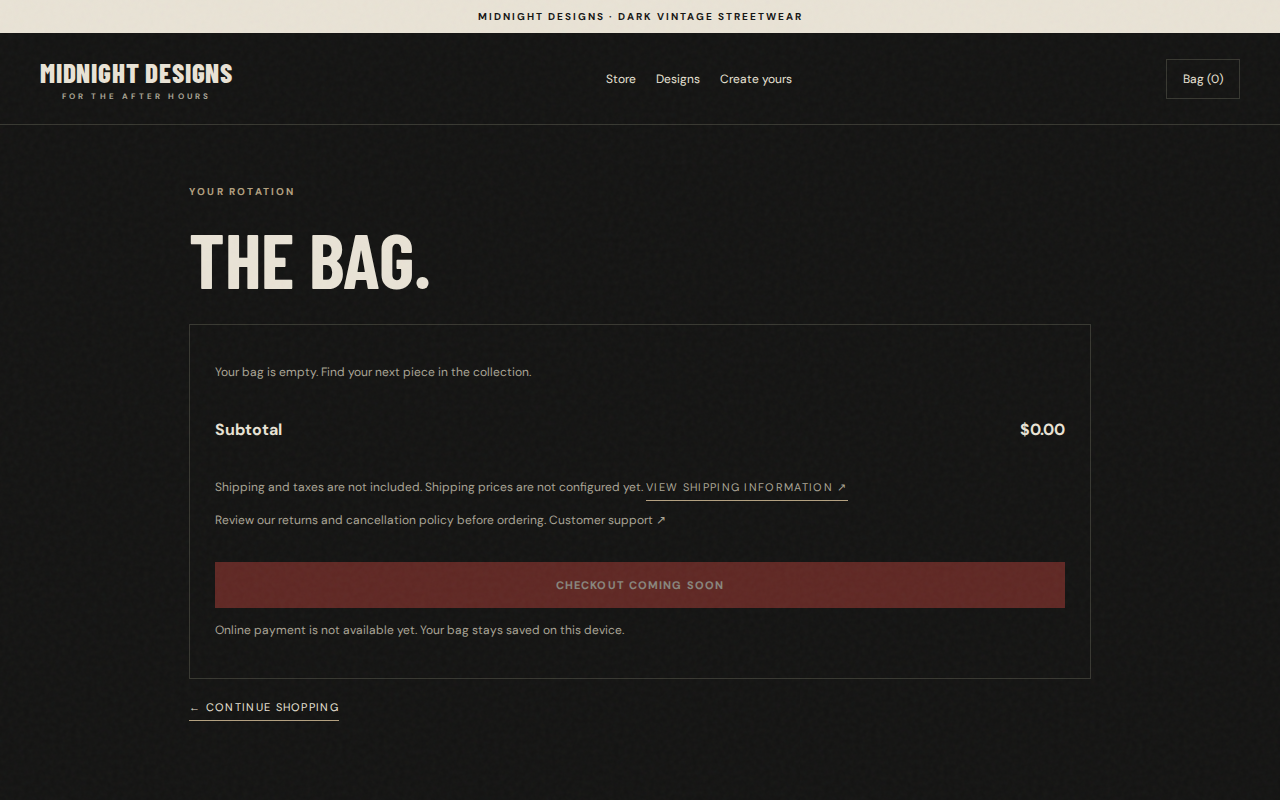
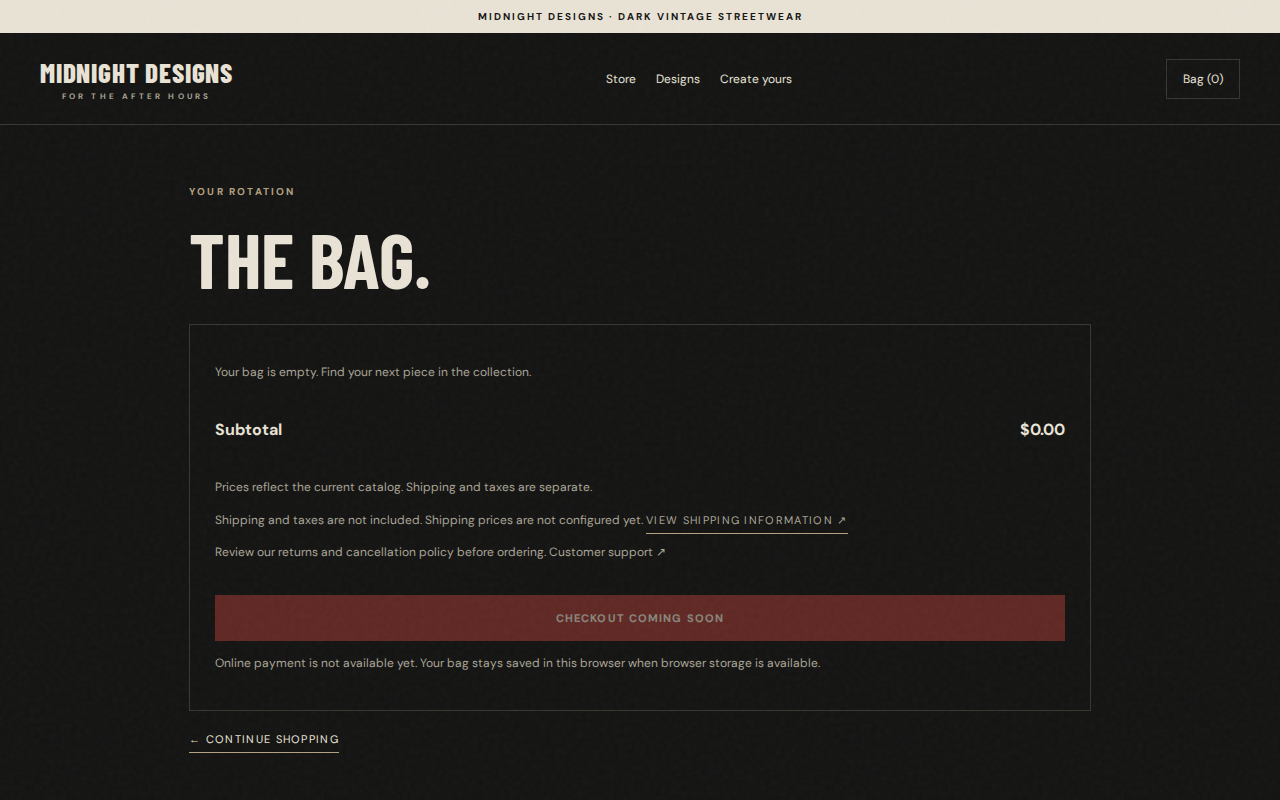
Improve mobile shopping readability and touch controls (#26)
* Improve mobile shopping typography, navigation, controls and image fit

* Refresh page previews after mobile shopping improvements

---------

Changed region(s): [[0.1562, 0.6875, 0.8438, 0.8438], [0.1562, 0.5938, 0.6562, 0.6562], [0.1562, 0.875, 0.2812, 0.9375]]

diff --git a/styles.css b/styles.css
@@ -16,3 +16,42 @@
 
 /* Keep the selected product option readable on its dark background. */
 .variant-button[aria-pressed=true]{color:var(--white)}
+
+/* Mobile shopping: readable copy, visible navigation and comfortable touch targets. */
+@media(max-width:800px){
+ .nav{padding:16px 20px;gap:12px}.nav .brand{font-size:23px}.nav .brand small{font-size:9px;letter-spacing:.25em}
+ .nav .pill{min-height:44px;display:inline-flex;align-items:center;font-size:14px;padding:10px 14px}
+ .nav .links{order:3;display:flex;width:100%;gap:8px;flex-wrap:nowrap;justify-content:stretch;font-size:14px}
+ .nav .links a,.nav .links a:last-child{display:flex;align-items:center;justify-content:center;flex:1;min-width:0;min-height:48px;padding:10px 6px;border:1px solid var(--line);background:var(--panel);text-align:center}
+ .section{padding:40px 20px}.wrap{padding:28px 20px;gap:28px}.cart-wrap{padding:40px 20px}
+ body .notice,body .catalog-status,body .photo-caption{font-size:14px;line-height:1.75}
+ body .info p,body .hero p,body .story p,body .product-spec-section p,body .product-spec-section li,body #availableOptions p{font-size:16px;line-height:1.75}
+ body label,body .info label{font-size:14px}body input:not([type=range]):not([type=color]),body select,body textarea{font-size:16px;min-height:48px}
+ body .btn,body .studio .btn,body .map-controls .btn{min-height:48px;font-size:13px;padding:14px 18px;line-height:1.4}
+ body .text-link{display:inline-flex;align-items:center;min-height:44px;font-size:13px;line-height:1.6;padding:8px 0;max-width:100%}
+ body .price{font-size:18px}.product-body h3{font-size:18px;line-height:1.5}.product-meta{flex-wrap:wrap}
+ .filters{gap:12px}.filters input{flex-basis:100%;min-width:0}.filters select{flex:1;min-width:0}
+ body .info h1{font-size:clamp(34px,8vw,48px);overflow-wrap:anywhere}
+ body h1.page-title{font-size:clamp(42px,10vw,60px);line-height:1.05;overflow-wrap:anywhere}
+ body .hero h1{font-size:clamp(58px,17vw,88px)}.hero-copy{padding:45px 20px 32px}.hero-art{margin:0 20px 30px;min-height:340px}
+ .hero-product{height:340px;max-height:65svh}.hero-art:before,.hero-art:after{max-width:90%}
+ .visual{max-width:100%;max-height:70svh}.visual img{max-width:100%;object-fit:contain}
+ .visual.is-artwork-detail img{max-width:none}
+ body .photo-filters button,body .variant-button{min-height:48px;font-size:14px;padding:12px 14px}
+ body .photo-enlarge{min-height:48px;font-size:14px;padding:12px 0}
+ body .photo-thumbnail span{font-size:12px;line-height:1.5}.gallery{padding-bottom:8px}
+ .footer{padding:28px 20px;flex-wrap:wrap;font-size:12px;line-height:1.7;gap:12px 20px}
+ .footer a{min-height:44px;display:inline-flex;align-items:center}
+ .item{grid-template-columns:70px minmax(0,1fr);gap:14px;align-items:start}.item>div:last-child{grid-column:2;display:flex;align-items:center;gap:18px;flex-wrap:wrap}
+ .item img{width:70px;height:90px}.item small{font-size:14px;line-height:1.6}.item b{font-size:16px;line-height:1.5}
+ .item button{font-size:14px;min-height:44px;padding:10px 8px}.item input{width:76px}.row{gap:20px;flex-wrap:wrap}
+ .size-guide summary,body .advanced-tools summary{min-height:44px;padding:12px 0;line-height:1.6;font-size:16px}
+}
+@media(max-width:600px){
+ .grid{grid-template-columns:1fr}.hero-actions .btn{width:100%}.nav .brand{font-size:21px}
+ .nav .links{font-size:13px}.nav .links a{padding-inline:4px}.filters select{flex-basis:100%}
+ .cart-wrap .panel{padding:18px}.product-image{max-height:65svh}
+ .footer{flex-direction:column;align-items:flex-start}.footer a{width:100%}
+}
+
+@media(max-width:800px){body #clothingGrid .btn{font-size:13px;min-height:48px}body .studio input:not([type=range]):not([type=color]),body .studio select,body .studio textarea{font-size:16px}}
